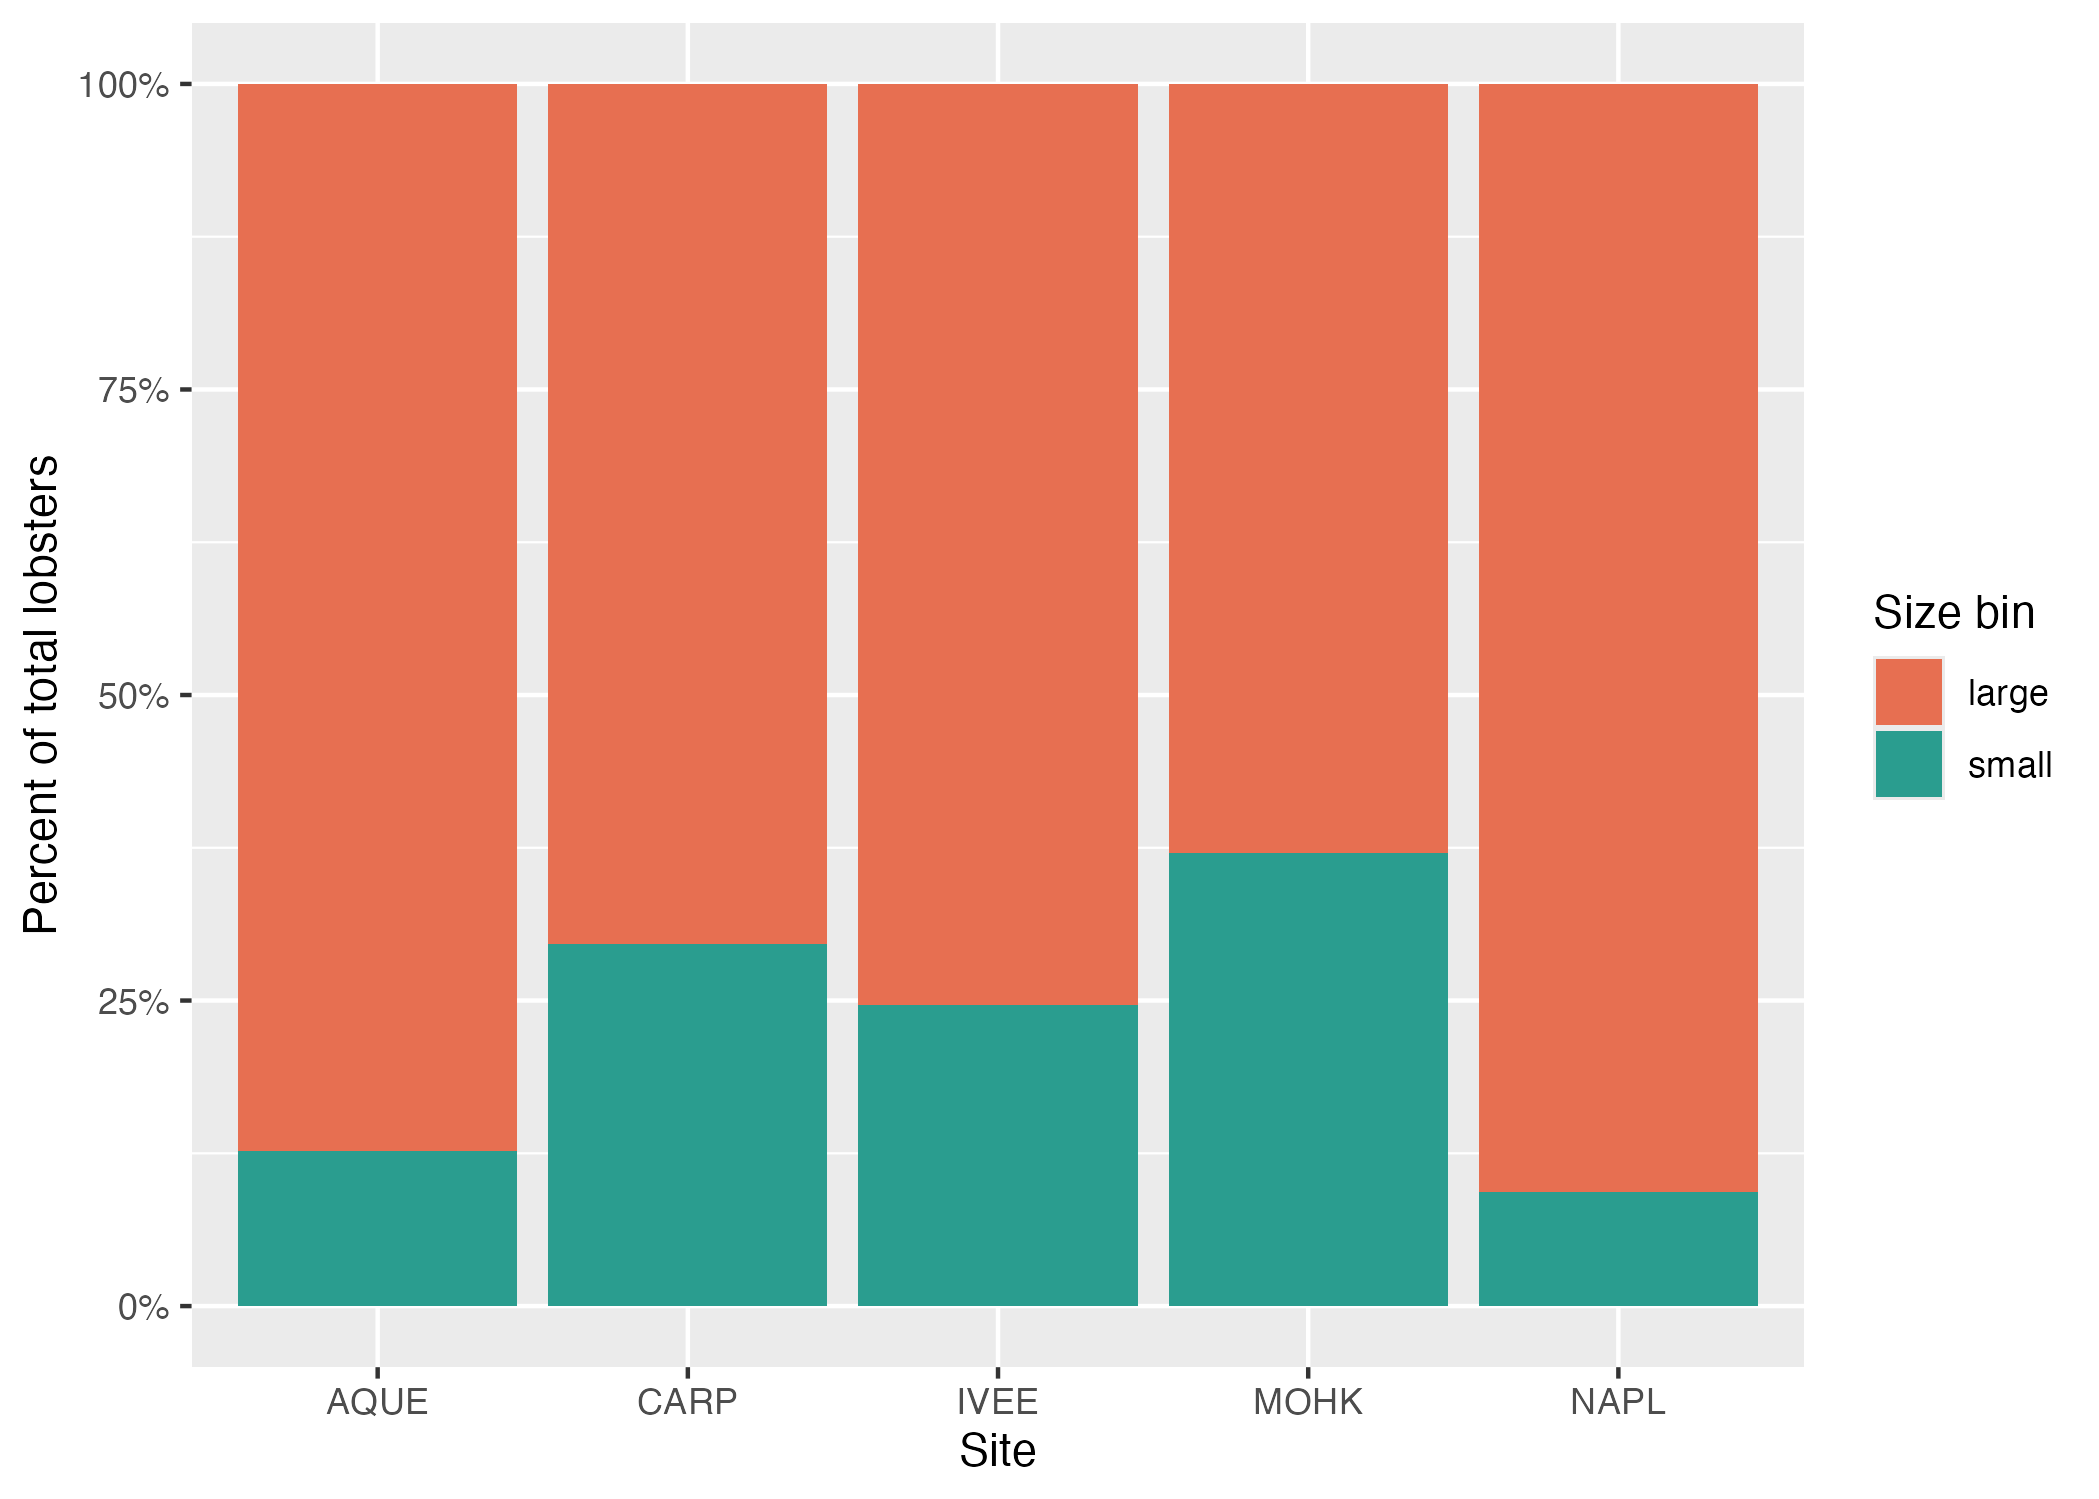
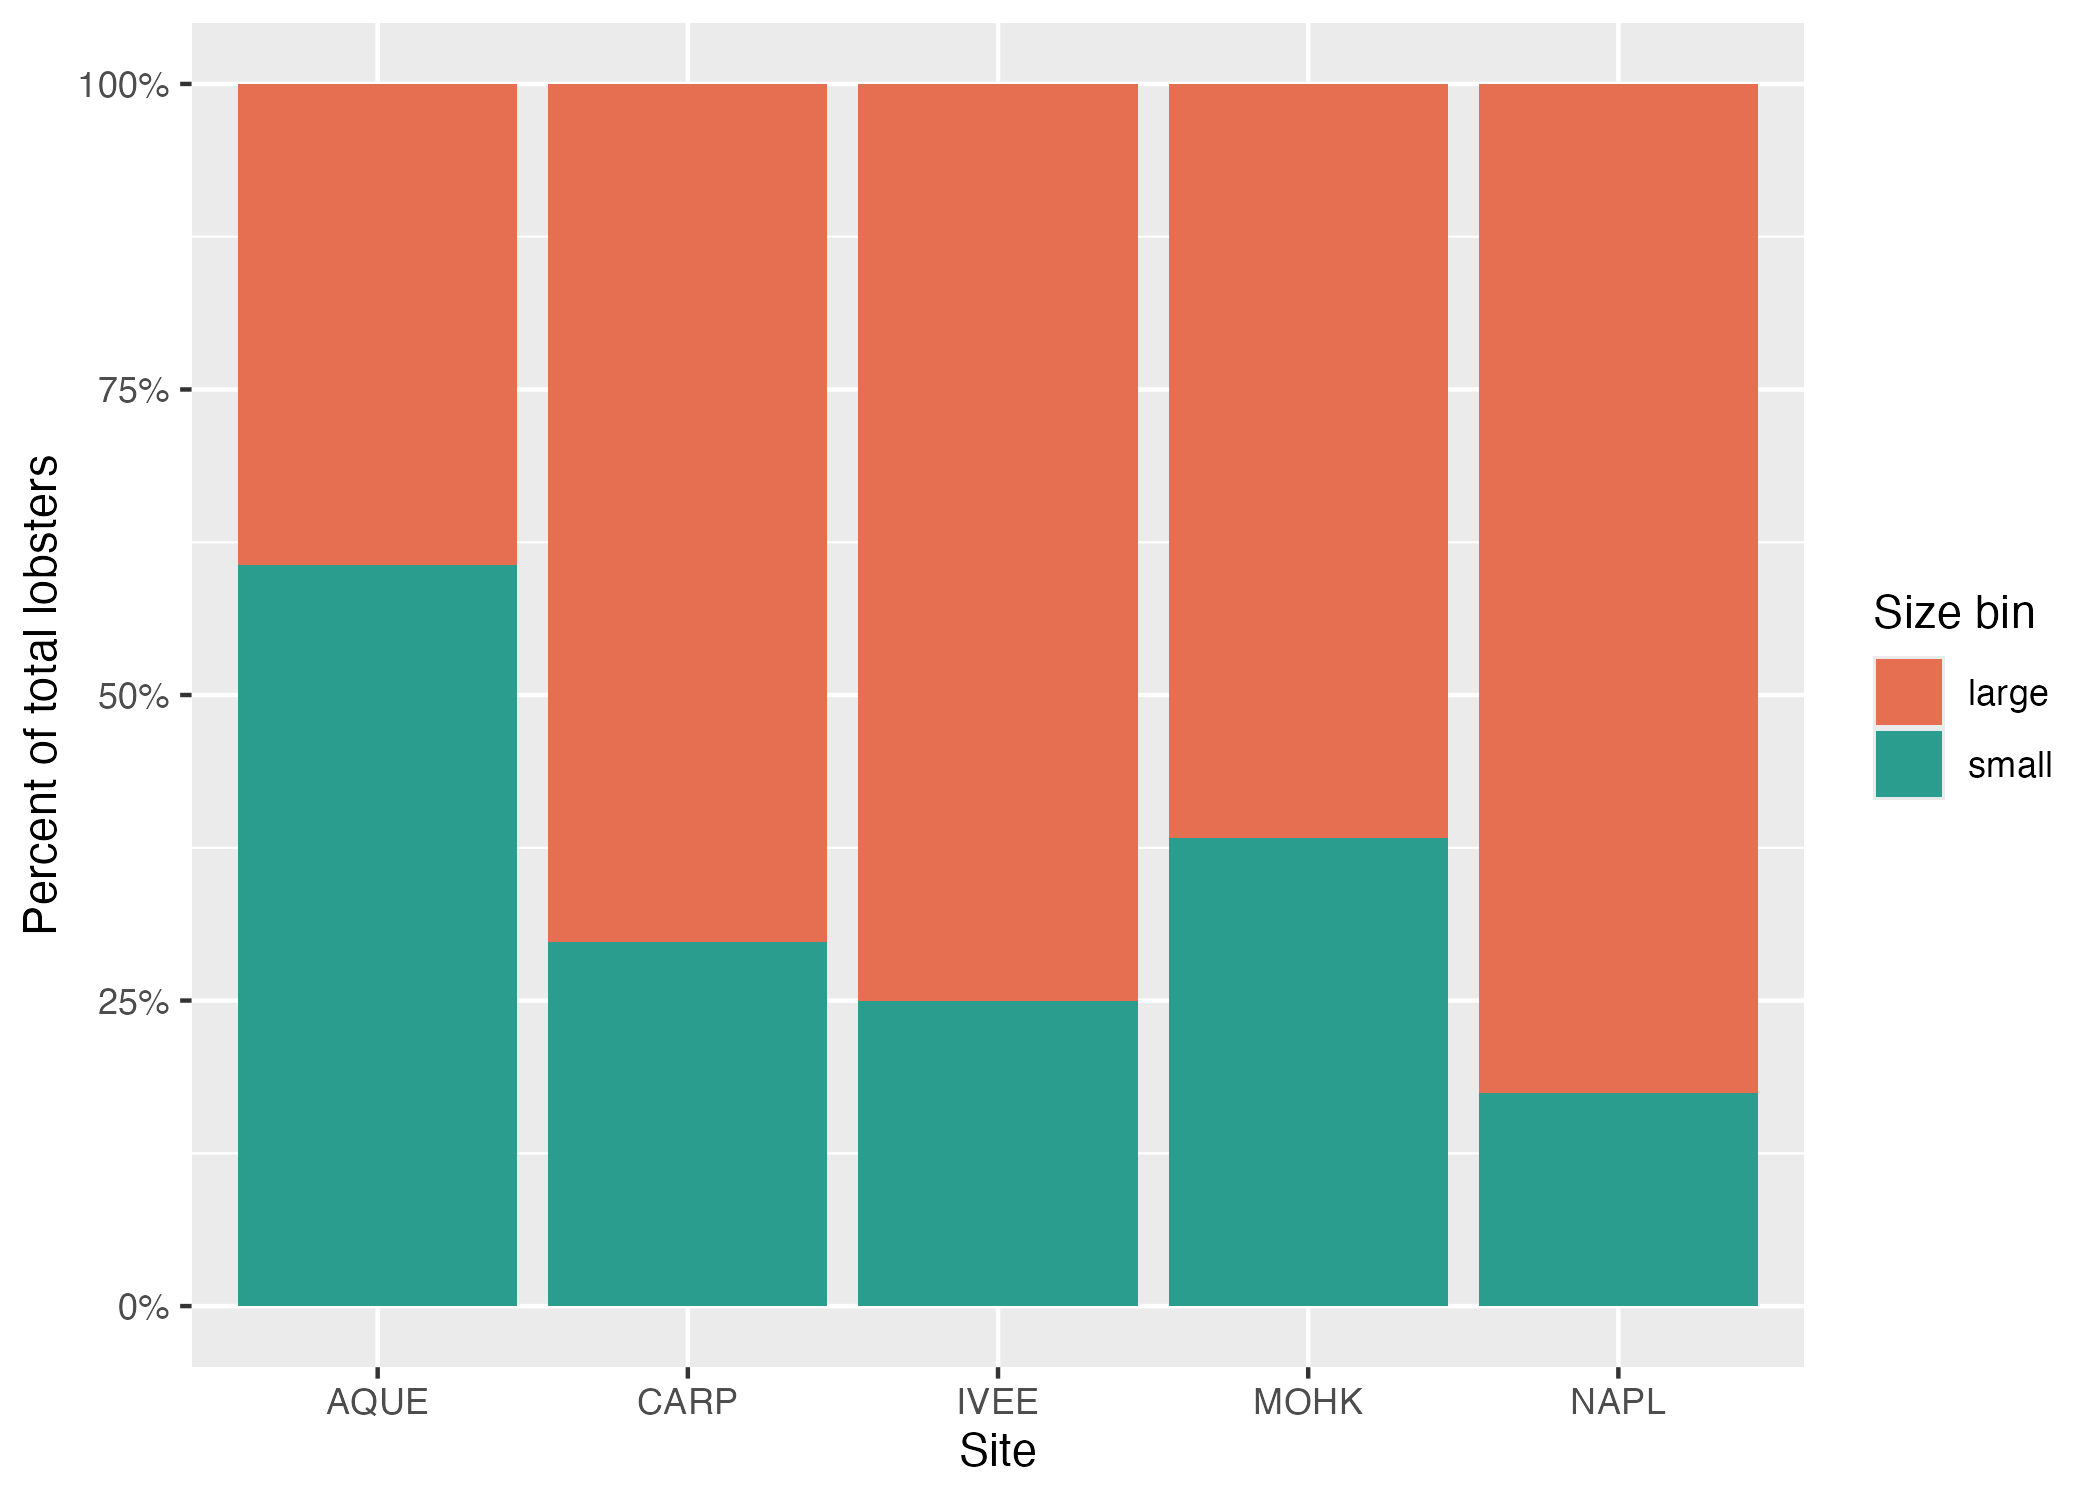
add files

Changed region(s): [[0.0929, 0.3682, 0.2477, 0.7672], [0.6813, 0.7058, 0.8361, 0.7979], [0.5574, 0.5524, 0.6813, 0.5831]]

diff --git a/analysis/lobster-report.html b/analysis/lobster-report.html
@@ -86,10 +86,8 @@ pre > code.sourceCode > span > a:first-child::before { text-decoration: underlin
    
   <ul>
   <li><a href="#purpose" id="toc-purpose" class="nav-link active" data-scroll-target="#purpose">Purpose</a></li>
-  <li><a href="#data-clean-up-quality-control" id="toc-data-clean-up-quality-control" class="nav-link" data-scroll-target="#data-clean-up-quality-control">Data clean up &amp; quality control</a>
-  <ul class="collapse">
-  <li><a href="#section" id="toc-section" class="nav-link" data-scroll-target="#section"></a></li>
-  </ul></li>
+  <li><a href="#data-clean-up-quality-control" id="toc-data-clean-up-quality-control" class="nav-link" data-scroll-target="#data-clean-up-quality-control">Data clean up &amp; quality control</a></li>
+  <li><a href="#data-analysis" id="toc-data-analysis" class="nav-link" data-scroll-target="#data-analysis">Data analysis</a></li>
   </ul>
 </nav>
 </div>
@@ -171,57 +169,65 @@ date (1): DATE
 ℹ Use `spec()` to retrieve the full column specification for this data.
 ℹ Specify the column types or set `show_col_types = FALSE` to quiet this message.</code></pre>
 </div>
-<div class="code-copy-outer-scaffold"><div class="sourceCode cell-code" id="cb9"><pre class="sourceCode r code-with-copy"><code class="sourceCode r"><span id="cb9-1"><a href="#cb9-1" aria-hidden="true" tabindex="-1"></a><span class="co">#view the data</span></span>
-<span id="cb9-2"><a href="#cb9-2" aria-hidden="true" tabindex="-1"></a><span class="fu">head</span>(lobster_abundance, <span class="at">n=</span><span class="dv">5</span>)</span></code></pre></div><button title="Copy to Clipboard" class="code-copy-button"><i class="bi"></i></button></div>
-<div class="cell-output cell-output-stdout">
-<pre><code># A tibble: 5 × 10
-   YEAR MONTH DATE       SITE  TRANSECT REPLICATE SIZE_MM COUNT NUM_AO  AREA
-  &lt;dbl&gt; &lt;dbl&gt; &lt;date&gt;     &lt;chr&gt;    &lt;dbl&gt; &lt;chr&gt;       &lt;dbl&gt; &lt;dbl&gt;  &lt;dbl&gt; &lt;dbl&gt;
-1  2012     8 2012-08-20 IVEE         1 A          -99999     0      0   300
-2  2012     8 2012-08-20 IVEE         1 B          -99999     0      0   300
-3  2012     8 2012-08-20 IVEE         1 C          -99999     0      0   300
-4  2012     8 2012-08-20 IVEE         1 D          -99999     0      0   300
-5  2012     8 2012-08-20 IVEE         2 A          -99999     0      0   300</code></pre>
 </div>
-<div class="code-copy-outer-scaffold"><div class="sourceCode cell-code" id="cb11"><pre class="sourceCode r code-with-copy"><code class="sourceCode r"><span id="cb11-1"><a href="#cb11-1" aria-hidden="true" tabindex="-1"></a><span class="fu">summary</span>(<span class="fu">head</span>(lobster_abundance,<span class="at">n=</span><span class="dv">10</span>))</span></code></pre></div><button title="Copy to Clipboard" class="code-copy-button"><i class="bi"></i></button></div>
-<div class="cell-output cell-output-stdout">
-<pre><code>      YEAR          MONTH        DATE                   SITE       TRANSECT  
- Min.   :2012   Min.   :8   Min.   :2012-08-20   Length   :10   Min.   :1.0  
- 1st Qu.:2012   1st Qu.:8   1st Qu.:2012-08-20   N.unique : 1   1st Qu.:1.0  
- Median :2012   Median :8   Median :2012-08-20   N.blank  : 0   Median :2.0  
- Mean   :2012   Mean   :8   Mean   :2012-08-20   Min.nchar: 4   Mean   :1.8  
- 3rd Qu.:2012   3rd Qu.:8   3rd Qu.:2012-08-20   Max.nchar: 4   3rd Qu.:2.0  
- Max.   :2012   Max.   :8   Max.   :2012-08-20                  Max.   :3.0  
-     REPLICATE     SIZE_MM           COUNT         NUM_AO       AREA    
- Length   :10   Min.   :-99999   Min.   :0.0   Min.   :0   Min.   :300  
- N.unique : 4   1st Qu.:-99999   1st Qu.:0.0   1st Qu.:0   1st Qu.:300  
- N.blank  : 0   Median :-99999   Median :0.0   Median :0   Median :300  
- Min.nchar: 1   Mean   :-79986   Mean   :0.2   Mean   :0   Mean   :300  
- Max.nchar: 1   3rd Qu.:-99999   3rd Qu.:0.0   3rd Qu.:0   3rd Qu.:300  
-                Max.   :    70   Max.   :1.0   Max.   :0   Max.   :300  </code></pre>
-</div>
-<div class="code-copy-outer-scaffold"><div class="sourceCode cell-code" id="cb13"><pre class="sourceCode r code-with-copy"><code class="sourceCode r"><span id="cb13-1"><a href="#cb13-1" aria-hidden="true" tabindex="-1"></a><span class="fu">list</span>(lobster_abundance)</span></code></pre></div><button title="Copy to Clipboard" class="code-copy-button"><i class="bi"></i></button></div>
-<div class="cell-output cell-output-stdout">
-<pre><code>[[1]]
-# A tibble: 7,574 × 10
-    YEAR MONTH DATE       SITE  TRANSECT REPLICATE SIZE_MM COUNT NUM_AO  AREA
-   &lt;dbl&gt; &lt;dbl&gt; &lt;date&gt;     &lt;chr&gt;    &lt;dbl&gt; &lt;chr&gt;       &lt;dbl&gt; &lt;dbl&gt;  &lt;dbl&gt; &lt;dbl&gt;
- 1  2012     8 2012-08-20 IVEE         1 A          -99999     0      0   300
- 2  2012     8 2012-08-20 IVEE         1 B          -99999     0      0   300
- 3  2012     8 2012-08-20 IVEE         1 C          -99999     0      0   300
- 4  2012     8 2012-08-20 IVEE         1 D          -99999     0      0   300
- 5  2012     8 2012-08-20 IVEE         2 A          -99999     0      0   300
- 6  2012     8 2012-08-20 IVEE         2 B          -99999     0      0   300
- 7  2012     8 2012-08-20 IVEE         2 C          -99999     0      0   300
- 8  2012     8 2012-08-20 IVEE         2 D          -99999     0      0   300
- 9  2012     8 2012-08-20 IVEE         3 A              70     1      0   300
-10  2012     8 2012-08-20 IVEE         3 B              60     1      0   300
-# ℹ 7,564 more rows</code></pre>
-</div>
-</div>
-<section id="section" class="level3">
-<h3 class="anchored" data-anchor-id="section"></h3>
 </section>
+<section id="data-analysis" class="level2">
+<h2 class="anchored" data-anchor-id="data-analysis">Data analysis</h2>
+<p>I would like to visualize the percentage of all caught lobster based on size:</p>
+<div class="cell">
+<div class="code-copy-outer-scaffold"><div class="sourceCode cell-code" id="cb9"><pre class="sourceCode r code-with-copy"><code class="sourceCode r"><span id="cb9-1"><a href="#cb9-1" aria-hidden="true" tabindex="-1"></a><span class="co">#First identify our lobster classifications</span></span>
+<span id="cb9-2"><a href="#cb9-2" aria-hidden="true" tabindex="-1"></a>lobster_size_lrg <span class="ot">&lt;-</span> lobster_abundance <span class="sc">%&gt;%</span> <span class="fu">filter</span>(YEAR <span class="sc">%in%</span> <span class="fu">c</span>(<span class="dv">2019</span>, <span class="dv">2020</span>, <span class="dv">2021</span>)) <span class="sc">%&gt;%</span> <span class="fu">mutate</span>(<span class="at">SIZE_BIN =</span> <span class="fu">if_else</span>(SIZE_MM <span class="sc">&lt;=</span> <span class="dv">70</span>, <span class="at">true =</span> <span class="st">"small"</span>, <span class="at">false =</span> <span class="st">"large"</span>)) <span class="sc">%&gt;%</span><span class="fu">group_by</span>(SITE, SIZE_BIN) <span class="sc">%&gt;%</span>  <span class="fu">summarize</span>(<span class="at">COUNT =</span> <span class="fu">n</span>()) <span class="sc">%&gt;%</span> <span class="fu">drop_na</span>()</span></code></pre></div><button title="Copy to Clipboard" class="code-copy-button"><i class="bi"></i></button></div>
+<div class="cell-output cell-output-stderr">
+<pre><code>`summarise()` has regrouped the output.
+ℹ Summaries were computed grouped by SITE and SIZE_BIN.
+ℹ Output is grouped by SITE.
+ℹ Use `summarise(.groups = "drop_last")` to silence this message.
+ℹ Use `summarise(.by = c(SITE, SIZE_BIN))` for per-operation grouping
+  (`?dplyr::dplyr_by`) instead.</code></pre>
+</div>
+<div class="code-copy-outer-scaffold"><div class="sourceCode cell-code" id="cb11"><pre class="sourceCode r code-with-copy"><code class="sourceCode r"><span id="cb11-1"><a href="#cb11-1" aria-hidden="true" tabindex="-1"></a><span class="co">#visualize</span></span>
+<span id="cb11-2"><a href="#cb11-2" aria-hidden="true" tabindex="-1"></a><span class="fu">ggplot</span>(<span class="at">data =</span> lobster_size_lrg, <span class="fu">aes</span>(<span class="at">x =</span> SITE, <span class="at">y =</span> COUNT, <span class="at">fill =</span> SIZE_BIN)) <span class="sc">+</span></span>
+<span id="cb11-3"><a href="#cb11-3" aria-hidden="true" tabindex="-1"></a>  <span class="fu">geom_col</span>(<span class="at">position =</span> <span class="st">"fill"</span>) <span class="sc">+</span></span>
+<span id="cb11-4"><a href="#cb11-4" aria-hidden="true" tabindex="-1"></a>  <span class="fu">scale_y_continuous</span>(<span class="at">labels =</span> scales<span class="sc">::</span>percent) <span class="sc">+</span></span>
+<span id="cb11-5"><a href="#cb11-5" aria-hidden="true" tabindex="-1"></a>  <span class="fu">scale_fill_manual</span>(<span class="at">values =</span> <span class="fu">c</span>(<span class="st">"large"</span> <span class="ot">=</span> <span class="st">"#E76F51"</span>,<span class="st">"small"</span> <span class="ot">=</span> <span class="st">"#2A9D8F"</span>)) <span class="sc">+</span></span>
+<span id="cb11-6"><a href="#cb11-6" aria-hidden="true" tabindex="-1"></a>  <span class="fu">labs</span>(<span class="at">x =</span> <span class="st">"Site"</span>,<span class="at">y =</span> <span class="st">"Percent of total lobsters"</span>,<span class="at">fill =</span> <span class="st">"Size bin"</span>)</span></code></pre></div><button title="Copy to Clipboard" class="code-copy-button"><i class="bi"></i></button></div>
+<div class="cell-output-display">
+<div>
+<figure class="figure">
+<p><img src="lobster-report_files/figure-html/fig%20-%20Total%20Large%20vs%20Small%20Lobster%20Caught-1.png" class="img-fluid figure-img" width="672"></p>
+</figure>
+</div>
+</div>
+<div class="code-copy-outer-scaffold"><div class="sourceCode cell-code" id="cb12"><pre class="sourceCode r code-with-copy"><code class="sourceCode r"><span id="cb12-1"><a href="#cb12-1" aria-hidden="true" tabindex="-1"></a><span class="fu">ggsave</span>(here<span class="sc">::</span><span class="fu">here</span>(<span class="st">"figs/total_lobsterpercent.png"</span>))</span></code></pre></div><button title="Copy to Clipboard" class="code-copy-button"><i class="bi"></i></button></div>
+<div class="cell-output cell-output-stderr">
+<pre><code>Saving 7 x 5 in image</code></pre>
+</div>
+</div>
+<p>I would also like to view this same data by month. To do this, i would first need to refilter my object by month.<br>
+</p>
+<div class="cell">
+<div class="code-copy-outer-scaffold"><div class="sourceCode cell-code" id="cb14"><pre class="sourceCode r code-with-copy"><code class="sourceCode r"><span id="cb14-1"><a href="#cb14-1" aria-hidden="true" tabindex="-1"></a><span class="co">#Filter by size and month</span></span>
+<span id="cb14-2"><a href="#cb14-2" aria-hidden="true" tabindex="-1"></a>lobster_size_lrg_month <span class="ot">&lt;-</span> lobster_abundance <span class="sc">%&gt;%</span> <span class="fu">filter</span>(YEAR <span class="sc">%in%</span> <span class="fu">c</span>(<span class="dv">2019</span>, <span class="dv">2020</span>, <span class="dv">2021</span>)) <span class="sc">%&gt;%</span> <span class="fu">mutate</span>(<span class="at">SIZE_BIN =</span> <span class="fu">if_else</span>(SIZE_MM <span class="sc">&lt;=</span> <span class="dv">70</span>, <span class="st">"small"</span>, <span class="st">"large"</span>),<span class="at">MONTH =</span> <span class="fu">factor</span>(MONTH)) <span class="sc">%&gt;%</span></span>
+<span id="cb14-3"><a href="#cb14-3" aria-hidden="true" tabindex="-1"></a>  <span class="fu">group_by</span>(SITE, MONTH, SIZE_BIN) <span class="sc">%&gt;%</span></span>
+<span id="cb14-4"><a href="#cb14-4" aria-hidden="true" tabindex="-1"></a>  <span class="fu">summarize</span>(<span class="at">COUNT =</span> <span class="fu">n</span>(), <span class="at">.groups =</span> <span class="st">"drop"</span>) <span class="sc">%&gt;%</span></span>
+<span id="cb14-5"><a href="#cb14-5" aria-hidden="true" tabindex="-1"></a>  <span class="fu">drop_na</span>()</span>
+<span id="cb14-6"><a href="#cb14-6" aria-hidden="true" tabindex="-1"></a><span class="fu">ggplot</span>(lobster_size_lrg_month, <span class="fu">aes</span>(<span class="at">x =</span> SITE, <span class="at">y =</span> COUNT, <span class="at">fill =</span> SIZE_BIN)) <span class="sc">+</span></span>
+<span id="cb14-7"><a href="#cb14-7" aria-hidden="true" tabindex="-1"></a>  <span class="fu">geom_col</span>(<span class="at">position =</span> <span class="st">"fill"</span>) <span class="sc">+</span></span>
+<span id="cb14-8"><a href="#cb14-8" aria-hidden="true" tabindex="-1"></a>  <span class="fu">facet_wrap</span>(<span class="sc">~</span> MONTH) <span class="sc">+</span></span>
+<span id="cb14-9"><a href="#cb14-9" aria-hidden="true" tabindex="-1"></a>  <span class="fu">scale_y_continuous</span>(<span class="at">labels =</span> scales<span class="sc">::</span>percent) <span class="sc">+</span></span>
+<span id="cb14-10"><a href="#cb14-10" aria-hidden="true" tabindex="-1"></a>  <span class="fu">labs</span>(<span class="at">x =</span> <span class="st">"Site"</span>,<span class="at">y =</span> <span class="st">"Percent of lobsters"</span>,<span class="at">fill =</span> <span class="st">"Size bin"</span>)</span></code></pre></div><button title="Copy to Clipboard" class="code-copy-button"><i class="bi"></i></button></div>
+<div class="cell-output-display">
+<div>
+<figure class="figure">
+<p><img src="lobster-report_files/figure-html/unnamed-chunk-3-1.png" class="img-fluid figure-img" width="672"></p>
+</figure>
+</div>
+</div>
+<div class="code-copy-outer-scaffold"><div class="sourceCode cell-code" id="cb15"><pre class="sourceCode r code-with-copy"><code class="sourceCode r"><span id="cb15-1"><a href="#cb15-1" aria-hidden="true" tabindex="-1"></a><span class="fu">ggsave</span>(here<span class="sc">::</span><span class="fu">here</span>(<span class="st">"figs/total_lobsterbymonth.png"</span>))</span></code></pre></div><button title="Copy to Clipboard" class="code-copy-button"><i class="bi"></i></button></div>
+<div class="cell-output cell-output-stderr">
+<pre><code>Saving 7 x 5 in image</code></pre>
+</div>
+</div>
 </section>
 
 </main>
